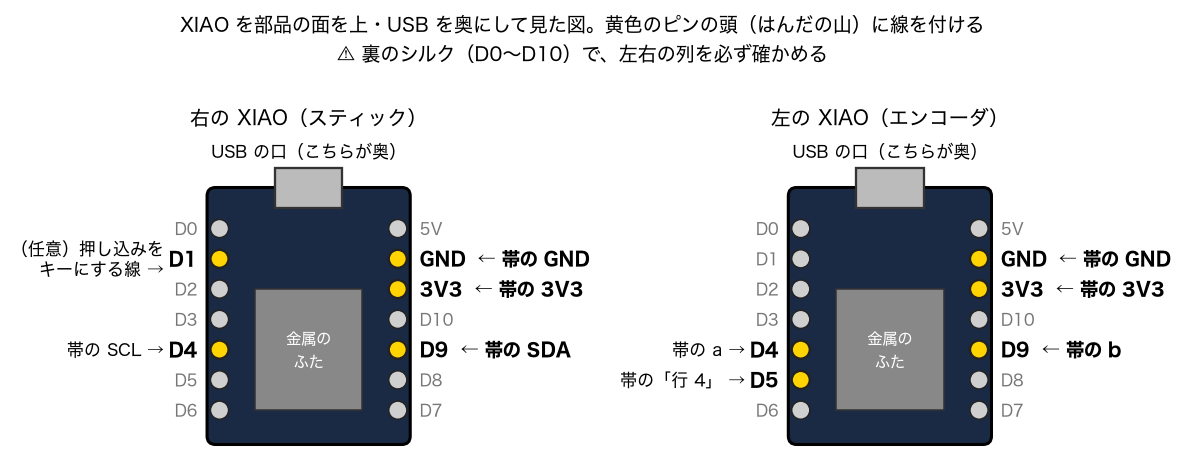
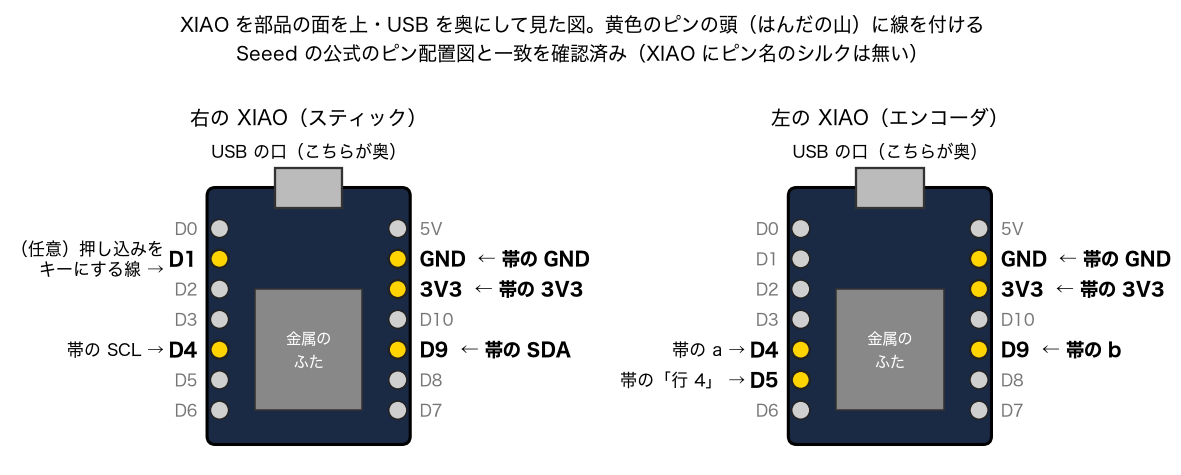
docs(joystick): XIAO のピン配置を Seeed 公式の図と突き合わせた（シルクは無い）

Changed region(s): [[0.1829, 0.0884, 0.7621, 0.1474]]

diff --git a/docs/hardware/joystick/guide/guide_figs.py b/docs/hardware/joystick/guide/guide_figs.py
@@ -309,7 +309,7 @@ def fig_xiao():
                 if hot and ha == "right":
                     ax.text(tx - 1.0, y, use[n] + " →", ha="right", va="center", fontsize=11, linespacing=1.2)
         ax.set_xlim(-4.2, 10.2); ax.set_ylim(-0.6, 9.2); ax.set_aspect("equal"); ax.axis("off"); ax.set_title(title, fontsize=13)
-    fig.suptitle("XIAO を部品の面を上・USB を奥にして見た図。黄色のピンの頭（はんだの山）に線を付ける\n⚠ 裏のシルク（D0〜D10）で、左右の列を必ず確かめる", fontsize=12.5, y=0.86)
+    fig.suptitle("XIAO を部品の面を上・USB を奥にして見た図。黄色のピンの頭（はんだの山）に線を付ける\nSeeed の公式のピン配置図と一致を確認済み（XIAO にピン名のシルクは無い）", fontsize=12.5, y=0.86)
     save(fig, "10_xiao_pins.png")
 
 

diff --git a/docs/hardware/joystick/guide/GUIDE.md b/docs/hardware/joystick/guide/GUIDE.md
@@ -170,7 +170,9 @@
 ![手順 4〜5](08_right_strip_4_wires.png)
 
 - [ ] 3. 筐体を開け、底板・子基板・主基板を FFC でつないだまま机に広げる。右の XIAO をソケットから抜く
-- [ ] 4. **XIAO の裏のシルク（D0〜D10）で、下の図と左右の列が合っていることを確かめる**
+- [ ] 4. **ピンの位置を確かめる。**XIAO にピン名のシルクは無い（2026-10-11 に現物で判明）。下の図は Seeed の公式のピン配置図
+      （wiki.seeedstudio.com/XIAO_BLE の front pinout）と突き合わせて一致を確かめた。現物では、テスター（`200`）で
+      **USB の口の金属の外枠**と、**金属のふたを上・USB を奥にして右の列の奥から 2 番め（GND）**に当てて `0` 付近になること
 - [ ] 5. 帯からの 4 本を、XIAO の**ピンの頭（はんだの山）**に付ける: 3V3・GND・D4・D9
 
 ![XIAO のピン](10_xiao_pins.png)
